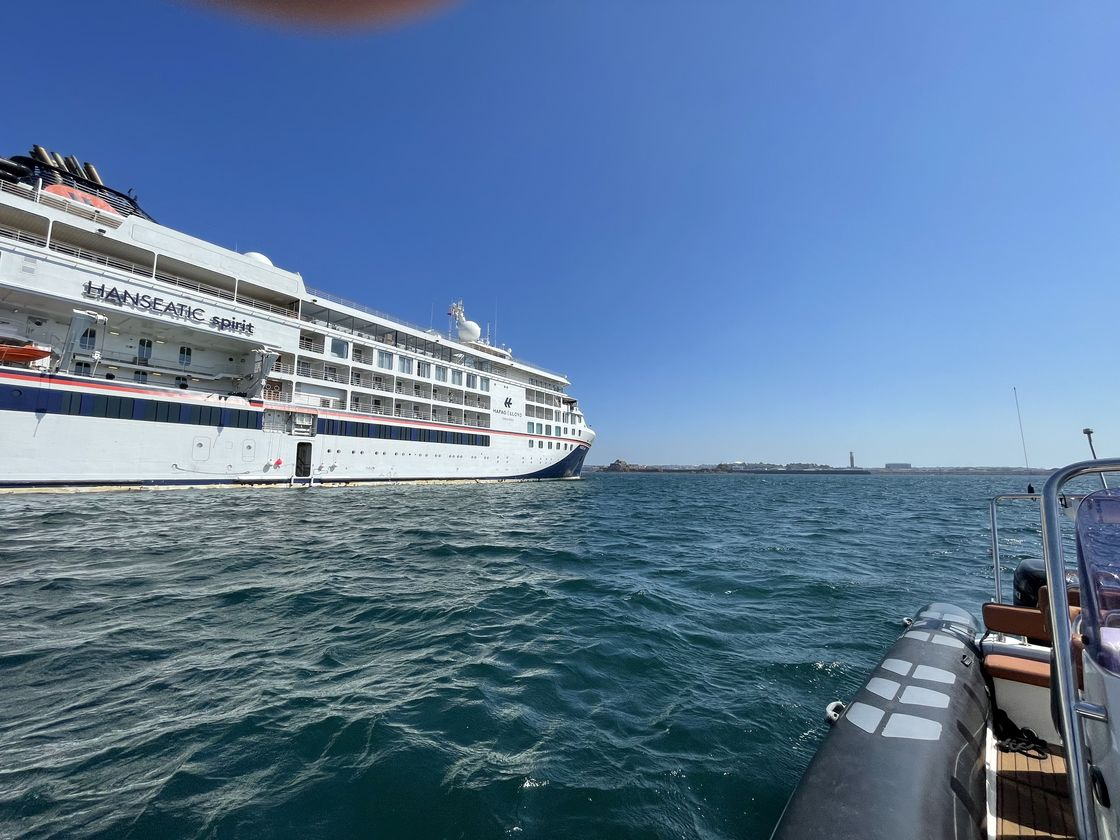
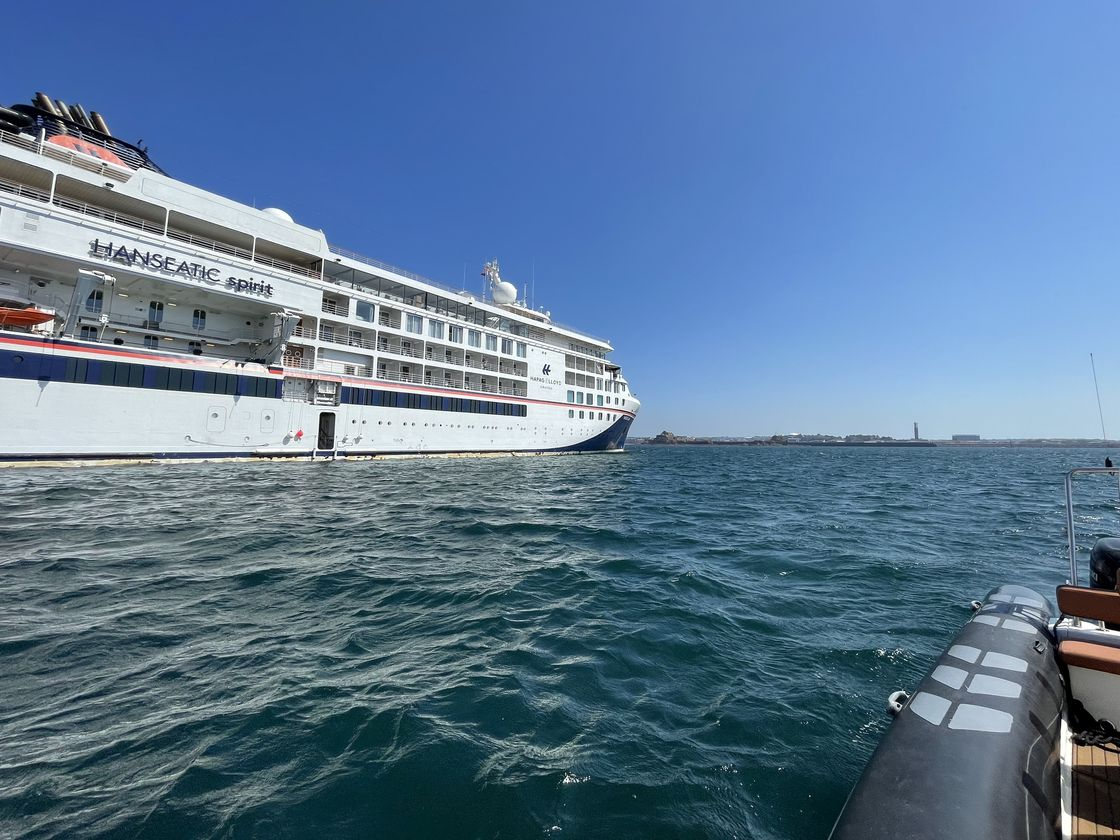
Gallery: photos can be trimmed at the edges first (trim in tools/carousel-notes.json); cruise photo 9 trimmed at the top (a finger over the lens)

diff --git a/tools/build-carousel.py b/tools/build-carousel.py
@@ -45,6 +45,8 @@ def main():
         note = notes.get(rel, {}); fx, fy = note.get('focus', [0.5, 0.5])
         im = ImageOps.exif_transpose(Image.open(src)).convert('RGB')      # upright, and the hidden camera details are not carried over
         w, h = im.size
+        t = note.get('trim')                                             # edges to cut off first (a finger over the lens...): [left, top, right, bottom] as shares
+        if t: im = im.crop((round(t[0] * w), round(t[1] * h), round(w - t[2] * w), round(h - t[3] * h))); w, h = im.size
         for bx in note.get('blur', []):                                  # areas to blur, such as a yacht's name: [x0, y0, x1, y1] as shares of the photo
             box = (round(bx[0] * w), round(bx[1] * h), round(bx[2] * w), round(bx[3] * h)); r = max(8, (box[2] - box[0]) // 10)
             part = im.crop(box).filter(ImageFilter.GaussianBlur(r)); mask = Image.new('L', part.size, 0)
